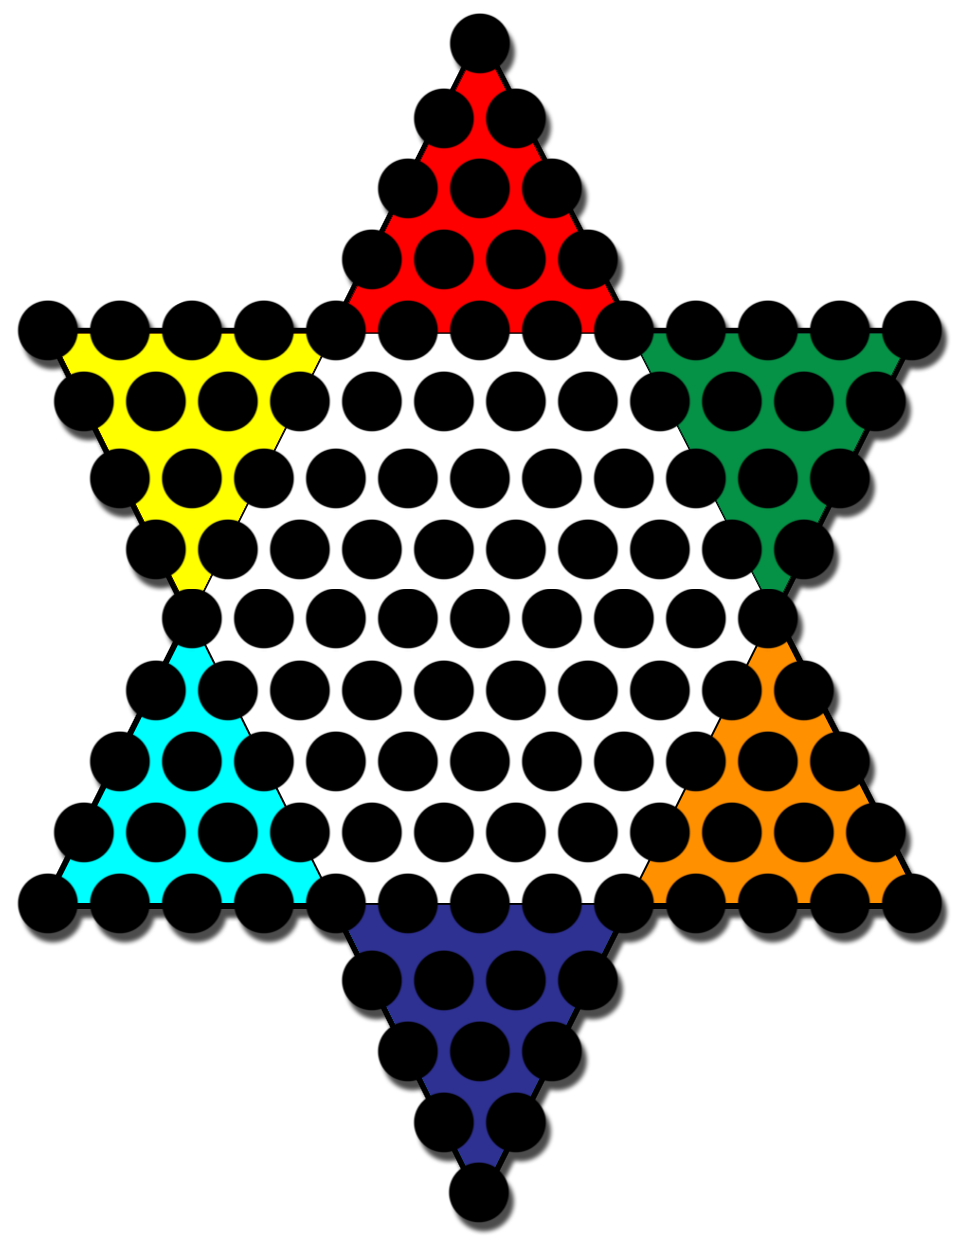
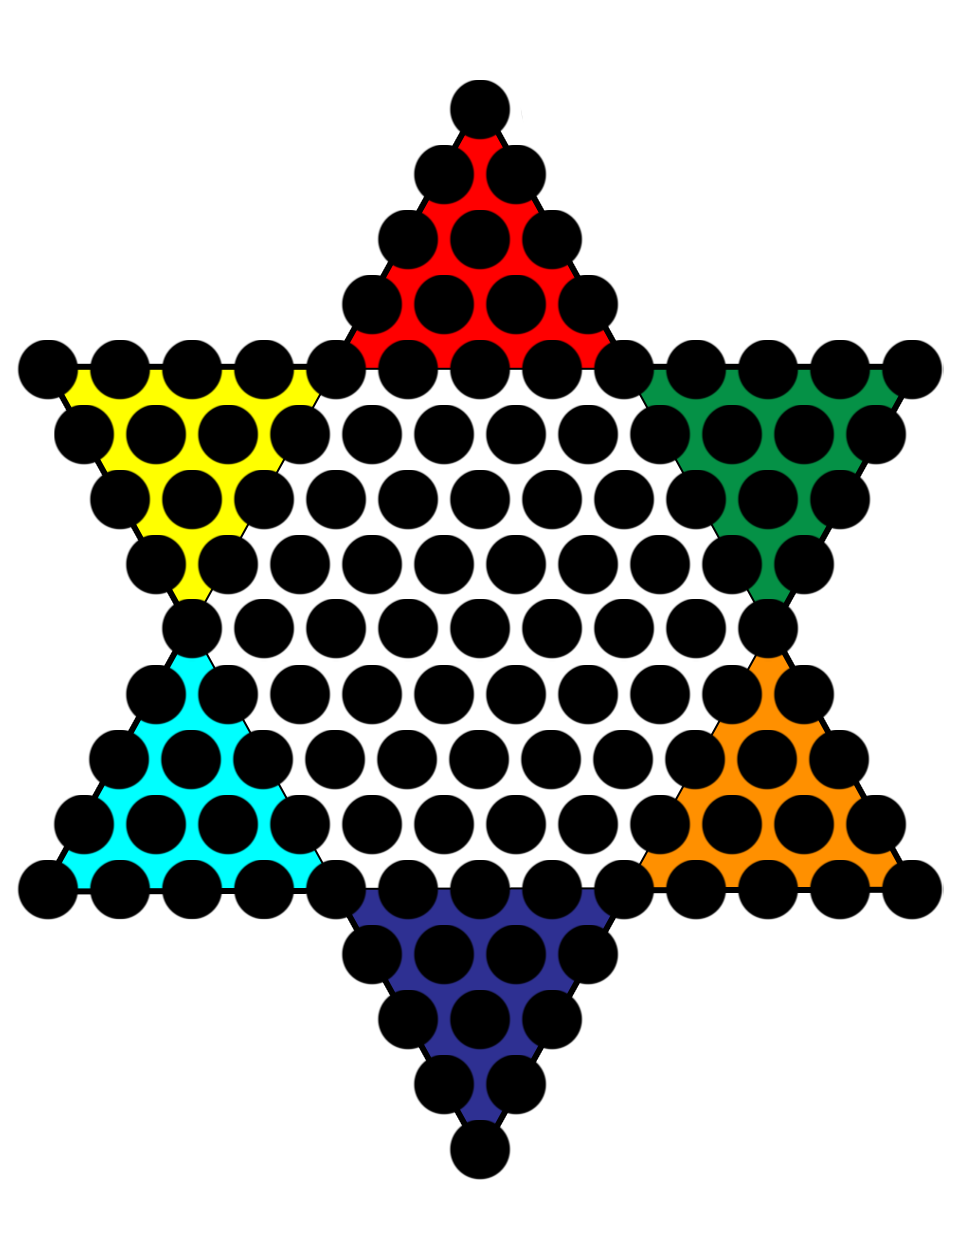
I haven't done the smaller sizes but it is good.

Changed region(s): [[0.0, 0.0, 1.0, 1.0]]

diff --git a/GameBoardPlayground.playground/section-1.swift b/GameBoardPlayground.playground/section-1.swift
@@ -3,9 +3,9 @@ import XCPlayground
 import PlaygroundSupport
 
 let dx = CGFloat(12)
-let dy = CGFloat(-21.16)
+let dy = CGFloat(-21.67)
 var startX = CGFloat(0)
-var startY = CGFloat(170)
+var startY = CGFloat(173.60)
 
 enum MarbleColor: String {
     case red
@@ -55,7 +55,7 @@ let scene = SKScene(fileNamed: "GameScene")!
 scene.scaleMode = SKSceneScaleMode.aspectFit
 view.presentScene(scene)
 
-func drawMarble(atPoint point: CGPoint, color: MarbleColor, radius: CGFloat = 12) -> MarbleNode {
+func drawMarble(atPoint point: CGPoint, color: MarbleColor, radius: CGFloat = 15) -> MarbleNode {
     let marbleSprite = MarbleNode(color: color)
     marbleSprite.size = CGSize(width: radius, height: radius)
     marbleSprite.position = point
@@ -131,7 +131,7 @@ let boardWidth = 13
 let boardHeight = 17
 
 let rowWidths = [1, 2, 3, 4, 13, 12, 11, 10, 9, 10, 11, 12, 13, 4, 3, 2, 1]
-let rowStarts = [6, 5, 5, 4,  0,  0,  1,  1, 2,  1,  1,  0,  0, 4, 5, 5, 6]
+let rowStarts = [6, 5, 5, 4, 0,  0,  1,  1, 2,  1,  1,  0,  0, 4, 5, 5, 6]
 
 func isValid(index: MarbleIndex) -> Bool {
     guard index.row >= 0 && index.row < boardHeight else {
@@ -145,7 +145,7 @@ func isValid(index: MarbleIndex) -> Bool {
     return ((rowStarts[index.row])..<(rowStarts[index.row] + rowWidths[index.row])).contains(index.column)
 }
 
-for i in 0..<15 {
+for i in 0..<17 {
     for j in 0..<boardWidth {
         let index = MarbleIndex((i, j))
         if isValid(index: index) {

diff --git a/MessagesExtension/GameScene.swift b/MessagesExtension/GameScene.swift
@@ -24,10 +24,10 @@ class GameScene: SKScene {
 
     static var sharedGame: GameScene!
 
-    let dx = CGFloat(12.15)
-    let dy = CGFloat(-23.9)
-    let startX = CGFloat(0)
-    let startY = CGFloat(192)
+    let dx = CGFloat(12)
+    let dy = CGFloat(-21.67)
+    var startX = CGFloat(0)
+    var startY = CGFloat(173.60)
     let boardWidth = 13
     let boardHeight = 17
 
